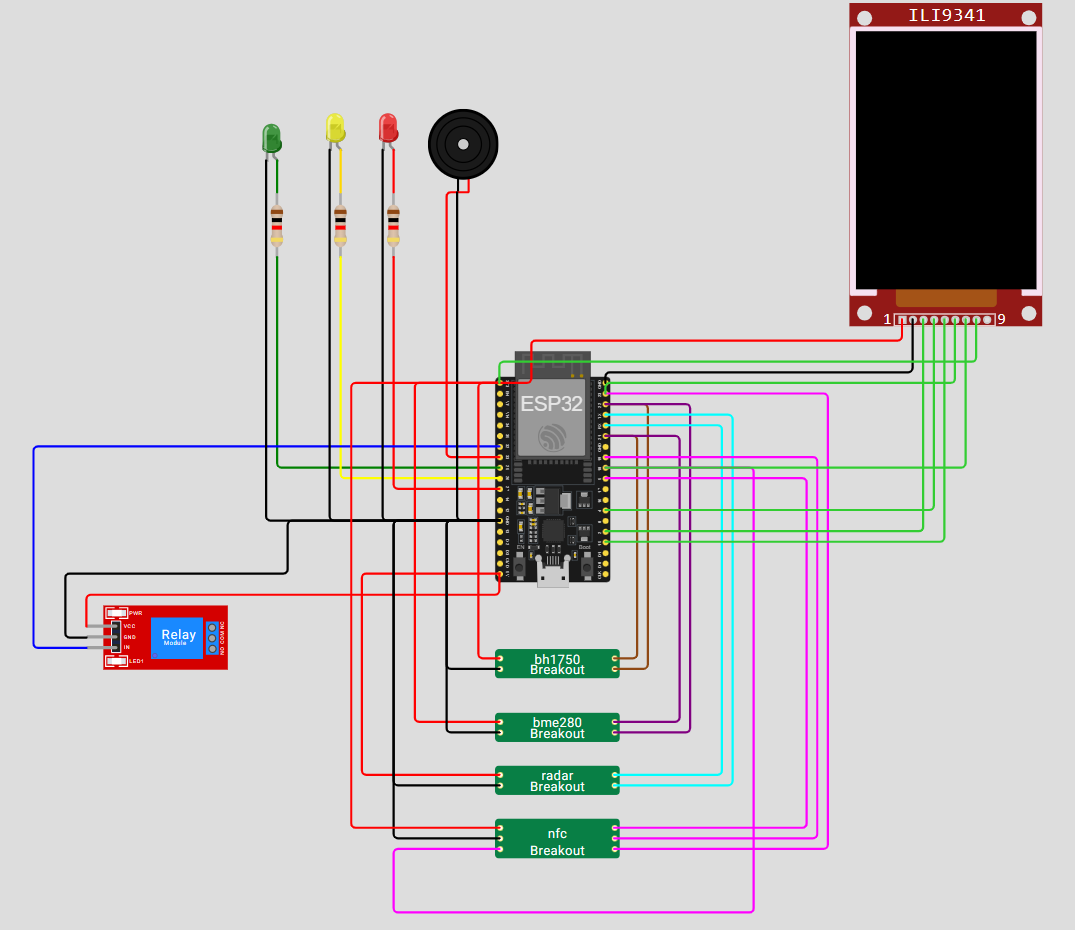
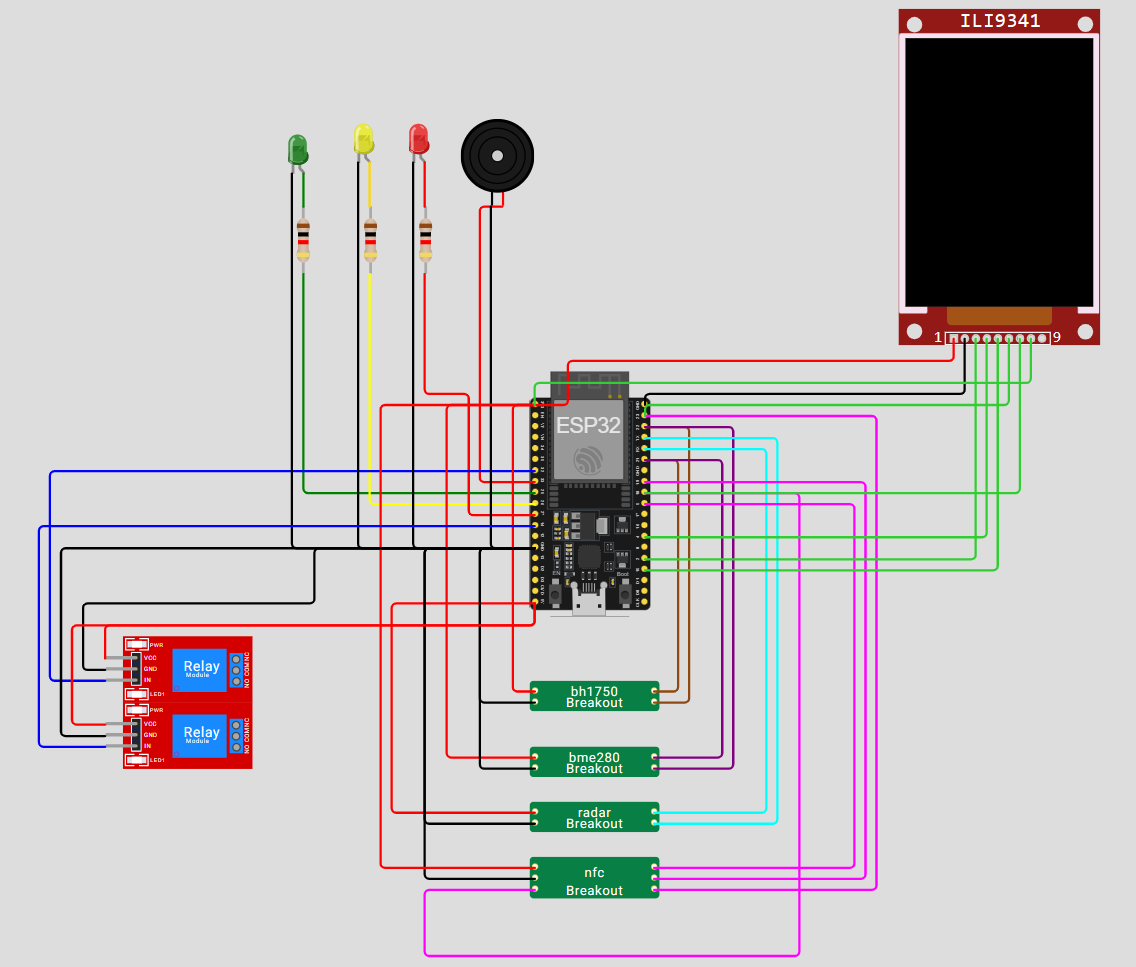
rele2

Changed region(s): [[0.0307, 0.0, 0.9823, 0.9978]]

diff --git a/Device_ESP32_app/config.h b/Device_ESP32_app/config.h
@@ -64,7 +64,8 @@ const char* tzInfo = "CET-1CEST,M3.5.0/2,M10.5.0/3";
 
 // Aula y pines
 const char* aula = "Aula 101";
-const int relayPin = 26;
+const int relayPin1 = 26;
+const int relayPin2 = 27;
 const int buzzerPin = 33;
 const int ledRojoPin = 25;
 const int ledVerdePin = 27;
